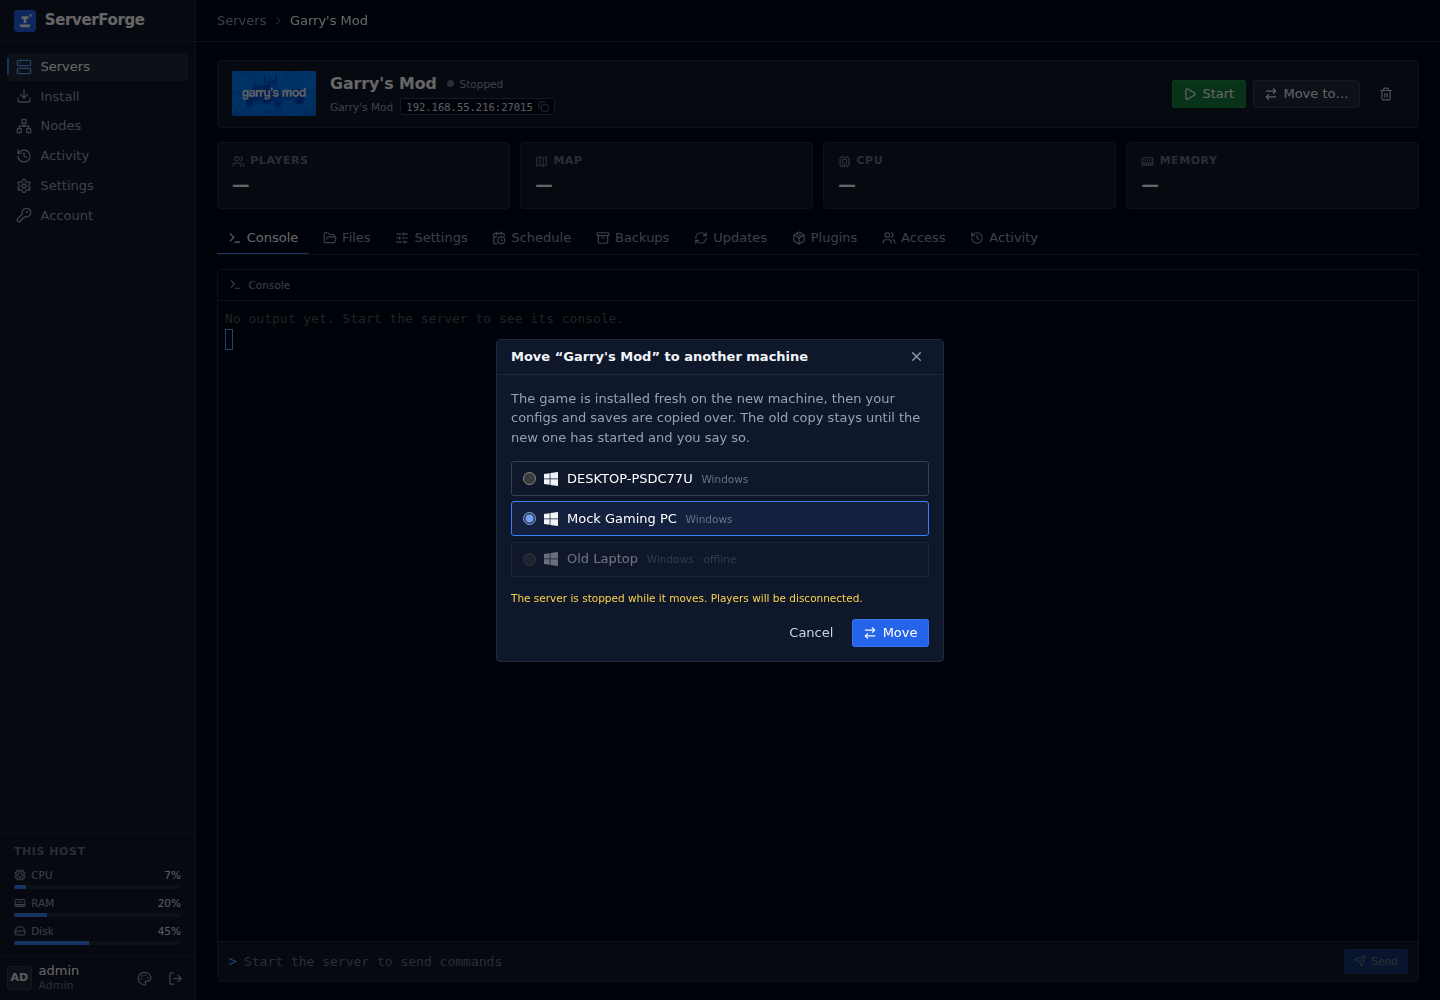
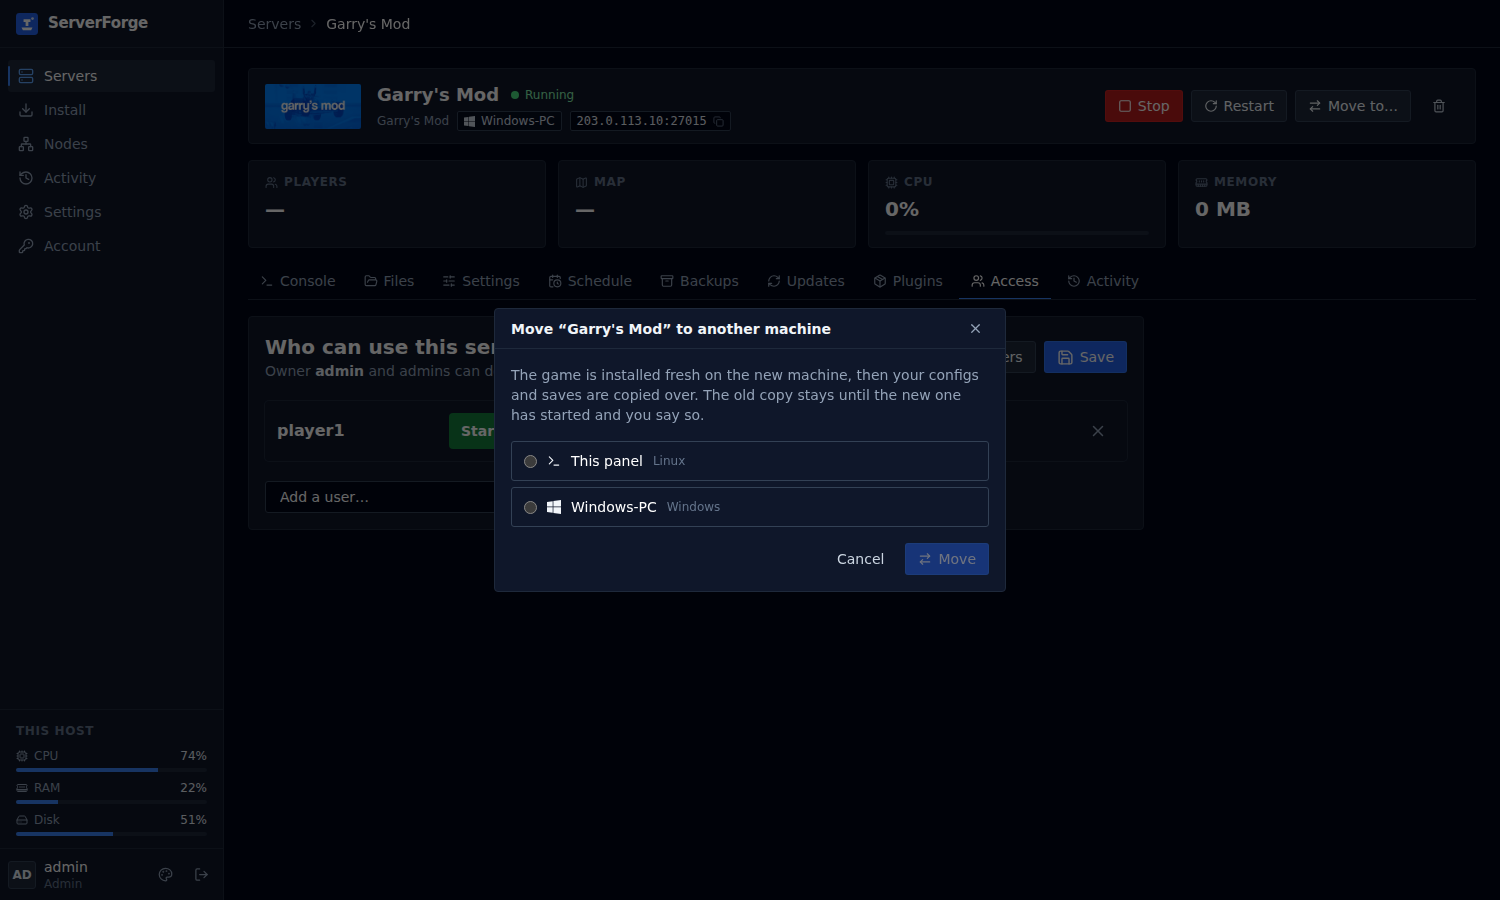
Prepare 1.11 documentation, sample screenshots and plugin UI fix

diff --git a/frontend/src/components/PluginManager.jsx b/frontend/src/components/PluginManager.jsx
@@ -17,8 +17,9 @@ function PluginManager({ server }) {
         }
         try {
             const res = await axios.get(`/api/server/${server.id}/plugins`);
-            setPlugins(res.data.installed || []);
-            setAvailablePlugins(res.data.available || []);
+            const list = Array.isArray(res.data) ? res.data : [];   // the API sends one list, each with an installed flag
+            setPlugins(list.filter(p => p.installed));
+            setAvailablePlugins(list.filter(p => !p.installed));
             setLoading(false);
         } catch (err) {
             console.error('Failed to fetch plugins:', err);
@@ -147,7 +148,7 @@ function PluginManager({ server }) {
             {/* Info */}
             <div className="bg-blue-500/10 border border-blue-500/20 rounded-lg p-4">
                 <p className="text-blue-400 text-sm">
-                    <strong>Note:</strong> Plugins extend your server's functionality. Make sure to restart your server after installing or uninstalling plugins.
+                    <strong>Note:</strong> Plugins extend your server's functionality. Make sure to restart your server after installing plugins. Plugin removal is not available in the panel yet.
                 </p>
             </div>
 

diff --git a/README.md b/README.md
@@ -1,123 +1,96 @@
 # ServerForge
 
-<div align="center">
+A self-hosted panel for game servers on Linux and Windows, with local accounts, per-server access, live console output and connected machines.
 
-![ServerForge Banner](https://via.placeholder.com/800x200/111827/3b82f6?text=SERVER+FORGE)
+![ServerForge server dashboard with sample data](screenshots/servers.png)
 
-**We are excited to announce the first official release of ServerForge, a modern, high-performance game server management panel**
-Built for speed, security, and ease of use.
+## Features
 
-[Features](#features) • [Installation](#installation) • [Supported Games](#supported-games) • [Documentation](#documentation)
+- Pick a game, then choose the machine that will run it. The catalogue lists 34 games; availability depends on the machine's OS.
+- Start, stop and restart servers; view console output and send commands.
+- Edit files, manage backups, schedule tasks and inspect activity.
+- Connect approved nodes over an authenticated TLS link; view machine folders, capacity and server locations.
+- Move supported server configurations and saves between machines. The destination installs its own game binaries, using its ready cache when available. Moves preserve supported schedules, access grants and Workshop collection settings, with warnings if a step fails.
+- Manage users, reset passwords, disable accounts and change roles. Account changes invalidate existing sessions.
+- Install supported plugins and set Workshop collections locally or on compatible nodes. There is no plugin uninstall action yet.
+- Download, update, cancel and resume each machine's game cache. Caches are OS-specific; Windows cache files cannot supply Linux installations. Node-to-node cache copying is not implemented.
 
-</div>
+## Screenshots
 
----
+These screenshots use sample users, machine names and documentation IP addresses.
 
-## 🚀 Features
+| Install a server | Connected machines |
+|---|---|
+| ![Install](screenshots/install.png) | ![Nodes](screenshots/nodes.png) |
 
-- 🎮 **Multi-Game Support** - Native support for Source Engine, Rust, ARK, and more.
-- ⚡ **Instant Deployment** - Smart pre-caching system for lightning-fast server installs.
-- 🛡 **Enterprise Security** - Cloudflare Zero Trust integration & role-based access control.
-- 📊 **Real-Time Console** - Live server monitoring, logs, and player management.
-- 📂 **Web File Manager** - Edit configuration files directly from your browser.
-- 🔄 **Automated Backups** - Schedule backups to keep your data safe.
-- 🔌 **Plugin System** - Extensible architecture for custom functionality.
+| Plugins | Server access |
+|---|---|
+| ![Plugins](screenshots/server-plugins.png) | ![Access](screenshots/server-access.png) |
 
-## 🛠 System Requirements
+| Users | Cache updates |
+|---|---|
+| ![Users](screenshots/settings-users.png) | ![Cache](screenshots/settings-cache.png) |
 
-| Component | Requirement |
-|-----------|-------------|
-| **OS** | Windows 10/11, Linux (Ubuntu/Debian), or macOS |
-| **Node.js** | **Version 18 or higher** (Required) |
-| **RAM** | 4GB+ Recommended |
-| **Disk** | 10GB+ (varies by game) |
+![Move a server](screenshots/move-dialog.png)
 
----
+## Run from source
 
-## 📦 Installation
+Use Node.js 22 and npm. Linux and Windows are the tested host platforms; individual games have their own requirements. Steam games need SteamCMD and sufficient disk space. On Debian/Ubuntu, SteamCMD also needs the appropriate 32-bit runtime libraries, commonly `lib32gcc-s1`.
 
-### 🪟 Windows (Quick Start)
+```sh
+npm ci --prefix backend
+npm ci --prefix frontend
+npm run build --prefix frontend
+```
 
-1.  **Prerequisite:** Ensure **Node.js v18+** is installed. [Download here](https://nodejs.org/).
-2.  **Download & Extract:** Unzip `ServerForge_v1.0.zip` to a folder of your choice (e.g., `C:\ServerForge`).
-3.  **Run Installer:**
-    *   Right-click the Start button and select **Terminal (Admin)** or **PowerShell (Admin)**.
-    *   Navigate to your folder: `cd C:\ServerForge`
-    *   Run this command to set up dependencies:
-        ```powershell
-        Set-ExecutionPolicy Bypass -Scope Process -Force; .\installers\windows\install.ps1
-        ```
-4.  **Start ServerForge:**
-    *   Ensure you are in the root `ServerForge_v1.0` folder.
-    *   Run:
-        ```powershell
-        npm start
-        ```
-5.  **Access the Panel:**
-    *   Open your browser to: **`http://localhost:3000`**
-    *   **Username:** `admin`
-    *   **Password:** set `ADMIN_PASSWORD` before the first start, or read the random one from `backend/data/initial-admin-password`. Change it in Settings → Account.
+Start the panel bound to loopback. In a POSIX shell:
 
-> [!TIP]
-> If you see an "Execution Policy" error, ensure you are running PowerShell as **Administrator**.
+```sh
+HOST=127.0.0.1 PORT=3000 npm start
+```
 
-### 🐧 Linux / macOS
+Or in PowerShell:
 
-1.  **Run the installer:**
-    ```bash
-    chmod +x installers/linux/install.sh
-    ./installers/linux/install.sh
-    ```
-2.  **Start the panel:**
-    ```bash
-    npm start
-    ```
+```powershell
+$env:HOST = '127.0.0.1'
+$env:PORT = '3000'
+npm start
+```
 
-### 🐳 Docker (Recommended for Production)
+Open `http://localhost:3000`. The initial username is `admin`. Before the first start, set `ADMIN_PASSWORD` to your chosen password (at least eight characters), or retrieve the generated password from `backend/data/initial-admin-password`. Change it under Account after signing in. There is no shared default password.
 
-Docker deployment provides easy multi-instance support and simplified deployment to platforms like Dokploy.
+For access from another device, configure a deliberate bind address, firewall rules and HTTPS. Keep data, backups, keys and credentials outside version control. Run a long-lived installation under a service manager; deployment examples are in `deploy/`. The bundled legacy installer scripts are not required for the source setup above.
 
-1.  **Setup environment:**
-    ```bash
-    copy .env.example .env
-    ```
-2.  **Build and run:**
-    ```bash
-    docker-compose up -d
-    ```
-2.  **Access the panel:** Open `http://localhost:3000`
-    *   User: `admin`
-    *   Password: `ADMIN_PASSWORD`, or the random one in `data/initial-admin-password`
+## Connected Windows nodes
 
-**For detailed Docker deployment instructions**, including:
-- Dokploy deployment
-- Multi-instance setup
-- Environment configuration
-- Production best practices
+Use Nodes → Add node and follow [the multi-node guide](docs/MULTI-NODE.md). The Windows node package has its own version, separate from panel release tags. Update a node through Nodes → Update when the panel offers it. Stop games first when testing a node update; verify your own Windows installation before relying on unattended operation.
 
-See **[DOCKER.md](DOCKER.md)** for the complete guide.
+```mermaid
+flowchart LR
+    Browser[Browser] --> Hub[ServerForge panel]
+    Hub --> Local[Local game servers]
+    Node[Approved Windows or Linux node] -->|Authenticated TLS link| Hub
+    Node --> Remote[Node game servers]
+```
 
+## Documentation
 
-## 🎮 Supported Games
+- [User guide](docs/USER-GUIDE.md)
+- [Architecture](docs/ARCHITECTURE.md)
+- [Multi-node setup and operation](docs/MULTI-NODE.md)
+- [Backend protocol](docs/MULTI-NODE-BACKEND.md)
+- [Docker deployment](DOCKER.md)
+- [Release notes](docs/RELEASE-1.11.md)
 
-ServerForge supports 16+ games out of the box, including:
+## Development checks
 
-*   **FPS:** CS:GO, CS:Source, TF2, L4D2, Insurgency
-*   **Survival:** Rust, ARK: Survival Evolved, 7 Days to Die, The Forest, Project Zomboid
-*   **Sandbox:** Garry's Mod
-*   **Classic:** Half-Life 2: DM, Day of Defeat: Source
+```sh
+npm test --prefix backend
+npm run build --prefix frontend
+```
 
-## 🔒 Authentication
+The backend suite uses isolated fixtures. Real Steam downloads, Windows service updates and plugin installation on your own node require additional machine-specific checks.
 
-ServerForge supports two authentication modes:
+## License
 
-1.  **Local Auth (Default):** Standard username/password login.
-2.  **External Auth:** Integration with **Cloudflare Zero Trust** for enterprise-grade security (SSO, MFA).
-
-## 🤝 Contributing
-
-Contributions are welcome! Please feel free to submit a Pull Request.
-
-## 📄 License
-
-This project is licensed under the ISC License.
+ISC. See the package metadata and included license files.

diff --git a/docs/USER-GUIDE.md b/docs/USER-GUIDE.md
@@ -1,0 +1,19 @@
+# Using ServerForge
+
+## Install and operate
+Choose Install, pick a game, then select a compatible machine and its settings. A ready cache on that machine can avoid a fresh download. Servers shows status, address and available actions. Open a server to use Console, Files, Schedule, Backups and Settings. Features on a remote server depend on the node's advertised capabilities.
+
+## Accounts and access
+Admins manage accounts in Settings → Users. Reset password, role changes and disabling an account end its current sessions. The last active admin cannot be disabled, deleted or demoted. Use a server's Access tab to grant individual permissions to ordinary users; admins already have full access. Account lets a signed-in user change their own password.
+
+## Plugins and Workshop
+The Plugins tab lists installed and available plugins. Install downloads the selected supported plugin. Restart the game to load it. Plugin uninstall is not implemented. Workshop items should be added to a Steam Workshop collection; set its numeric collection ID in the panel. Workshop search needs a Steam Web API key in Settings. Remote plugin management requires an updated node.
+
+## Moving servers
+Move to… prepares a fresh installation on the target, copies supported configurations/saves and verifies that it starts. A ready destination cache is used when available. Schedules, access and Workshop collection settings are copied; read any warnings and restore missing settings before removing the source. Keep both retains the source. Remove old copy and files requests deletion of the old record and game files; the UI reports if files could not be removed. Back up valuable saves before a move.
+
+## Download cache
+Settings → Manage Cache chooses a machine. Download creates its cache; Update refreshes an existing cache on demand. Cancel waits for the installer to stop, and Resume retries interrupted work. An in-use cache cannot be updated or deleted while copying. Cache binaries are OS-specific. There is no overnight auto-update or node-to-node cache copy in this release.
+
+## Versions and operation
+Panel release tags and Windows node package versions are separate. Use Nodes → Update for node packages. The machine details show configuration paths and capacity; offline nodes cannot accept new operations. Run the panel under your service manager and preserve its data directories when updating source.

diff --git a/docs/RELEASE-1.11.md b/docs/RELEASE-1.11.md
@@ -1,0 +1,15 @@
+# ServerForge 1.11
+
+This release brings the multi-node panel updates onto the main branch, including:
+
+- Game-first installation with a compatible-machine picker, readable UI and machine detail cards.
+- Moves that preserve schedules/access and Workshop settings, pace large archives, and optionally remove the original game files.
+- Node capability compatibility, so unfamiliar advertised actions do not disconnect newer nodes.
+- User roles, disable/enable and password reset with session invalidation.
+- Remote plugin management, corrected ULib/ULX directory layout, Workshop settings persistence, and corrected installed/available plugin display.
+- On-demand cache updates, progress/cancel controls and copy/update exclusion.
+- Activity focused on changes, refreshed documentation and sample-data screenshots.
+
+Validation: backend suite passed twice consecutively (89/89 each) and production frontend build passed. The plugin list UI was checked separately using mocked API responses. An earlier unidentified intermittent backend failure did not reproduce; no fix is claimed for it. Vite's bundle-size warning remains.
+
+Known limits: plugins cannot be uninstalled from the panel; caches are OS-specific and node-to-node copy is not implemented. Real Windows plugin installation and a real Steam cache update remain machine-specific checks. Panel tags are separate from the Windows node package version.

diff --git a/CHECKLIST.md b/CHECKLIST.md
@@ -113,3 +113,12 @@ Owner for this release checklist: codex. Daniel approved the seven fixes plus to
 - [ ] Daniel's Windows check: actual plugin installation and a real Steam cache refresh remain unverified here.
 
 Release flow: Daniel approval → codex review + repeat tests → commit dependencies → push claude/overhaul → Daniel checks board outcome.
+
+## Main-branch release 1.11 (2026-10-31, codex)
+Daniel approved refreshed docs/images, main-only history and a tagged release in card comments at 19:09, 19:14 and 19:17.
+- [x] Replaced placeholder README with current features, source setup, limitations and sample screenshots; added user guide and release notes.
+- [x] Reviewed 34 legacy screenshots: several contain LAN addresses/machine names. Removed the legacy set from the release tree and installed eight reviewed sample-data screenshots (generic users, TEST-NET addresses). Existing Git history is unchanged.
+- [x] Corrected Plugins API list rendering and removed misleading uninstall wording.
+- [x] Browser regression with mocked API: installed/available lists render, Install sends correct plugin ID, refreshed plugin appears under Installed, no page errors.
+- [x] Full backend checks remain 89/89 twice; only frontend/docs/images changed since those checks.
+- [ ] Push main, verify remote, remove merged feature branch, publish tag/release 1.11.
